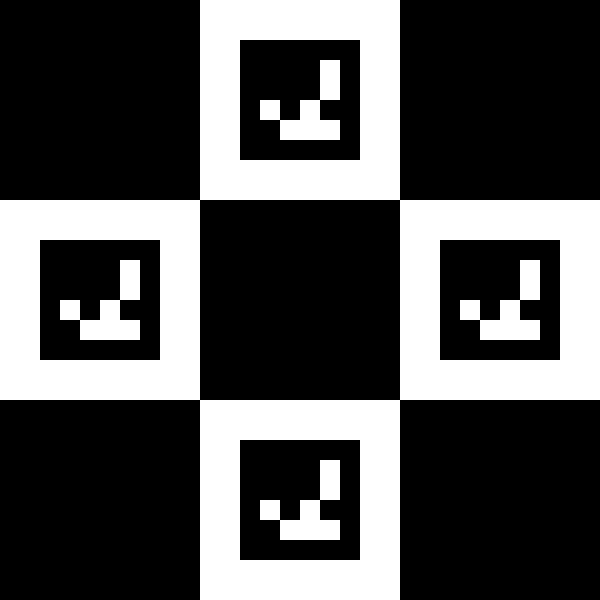
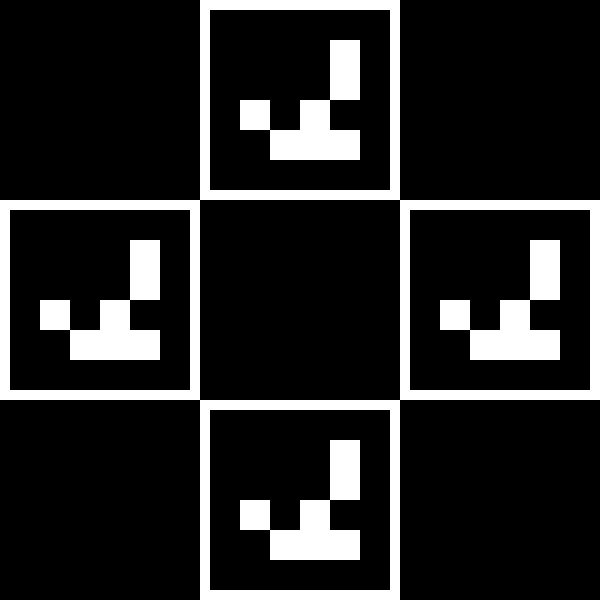
charuco tracking working

diff --git a/hostSystem/chArucoTracker.py b/hostSystem/chArucoTracker.py
@@ -72,17 +72,18 @@ class Tracker:
         (corners, ids, rejectedImgPoints) = cv2.aruco.detectMarkers(gray, self.arucoDict, parameters=self.arucoParams)
         # ads the corners to the dictionary if they are detected
         if len(corners) > 0:
-            diamondCorners, diamondIds = cv2.aruco.detectCharucoDiamond(gray, corners, self.squareWidth/self.markerWidth)
+            diamondCorners, diamondIds = cv2.aruco.detectCharucoDiamond(gray, corners, ids, self.squareWidth/self.markerWidth)
             if len(diamondCorners) > 0:
-                diamondIds.flatten()
+                # draws the marker outlines, ids
+                cv2.aruco.drawDetectedDiamonds(frame, diamondCorners, diamondIds)
                 for i in range(len(diamondIds)):
-                    self.Corners[diamondIds[i][0][0]] = diamondCorners[i]
+                    self.Corners[diamondIds[i][0][0]] = diamondCorners[i].reshape(1, 4, 2)
                     # only calculates position if the origin is found. Backup condition if the origin id has found markers because the origin will be marked as found inside the loop (second condition isn't checked if first condition is true)
         if self.originFound or len(self.Corners[10]) != 0:
             # locates the position of the origin marker only once to eliminate a bit of noise (if camera is not rigid and it moves this should be changed)
             if not self.originFound:
                 # gets the rotation and translation vector of the origin marker
-                self.originR, self.originT, markerpos = cv2.aruco.estimatePoseSingleMarkers(self.Corners[10], self.markerWidth, self.mtx, self.dist)
+                self.originR, self.originT, markerpos = cv2.aruco.estimatePoseSingleMarkers(self.Corners[10], self.squareWidth, self.mtx, self.dist)
                 # calculates rotation matrix from the rotation vector
                 self.rodrigues = cv2.Rodrigues(self.originR[0][0])[0]
                 self.originFound = True
@@ -92,7 +93,7 @@ class Tracker:
                 # checks if there is a marker found at the specific id
                 if len(self.Corners[10+i]) != 0:
                     # finds marker position in the camera reference frame
-                    rvec, tvec, markerpos = cv2.aruco.estimatePoseSingleMarkers(self.Corners[i+10], self.markerWidth, self.mtx, self.dist)
+                    rvec, tvec, markerpos = cv2.aruco.estimatePoseSingleMarkers(self.Corners[i+10], self.squareWidth, self.mtx, self.dist)
                     # finds the difference in position between the origin and the marker and rotates it to the origin reference frame
                     position = np.matmul(self.rodrigues, tvec[0][0]-self.originT[0][0])
                     # rotation matrix of the marker
@@ -103,8 +104,7 @@ class Tracker:
                     self.pos[i] = [position[0], position[1], self.fixAngle(heading)]
                     # drawing axis on the markers
                     cv2.aruco.drawAxis(frame, self.mtx, self.dist, Rod, tvec, self.markerWidth)
-        # draws the marker outlines, ids
-        cv2.aruco.drawDetectedDiamonds(frame, diamondCorners, diamondIds)
+
         # calculating FPS and drawing it onto the frame
         self.endTime = datetime.datetime.now()
         dt = (self.endTime - self.startTime).total_seconds()

diff --git a/hostSystem/PositionTracking.py b/hostSystem/PositionTracking.py
@@ -1,6 +1,7 @@
 from webcamvideostream import WebcamVideoStream
 import cv2
 from chArucoTracker import Tracker
+#from tracker import Tracker
 import requests
 import pandas as pd
 import numpy as np
@@ -30,10 +31,10 @@ while True:
     if ret:
         rederedFrame = tracker.find_markerPos(frame)
         # add frame rate to the rendered frame
-        if makeframe:
-            cv2.imshow("frame", rederedFrame)
-            if cv2.waitKey(1) & 0xFF == ord('q'):
-                break
+
+        cv2.imshow("frame", rederedFrame)
+        if cv2.waitKey(1) & 0xFF == ord('q'):
+            break
         print("(" + format(tracker.pos[1][0], '.2f') + ", " + format(tracker.pos[1][1], '.2f') + ", " + format(tracker.pos[1][2], '.2f') + ")" + "(" + format(tracker.pos[2][0], '.2f') + ", " + format(tracker.pos[2]
               [1], '.2f') + ", " + format(tracker.pos[2][2], '.2f') + ")" + "(" + format(tracker.pos[3][0], '.2f') + ", " + format(tracker.pos[3][1], '.2f') + ", " + format(tracker.pos[3][2], '.2f') + ")", end='\r')
 # release the camera

diff --git a/hostSystem/tracker.py b/hostSystem/tracker.py
@@ -78,6 +78,7 @@ class Tracker:
         if self.originFound or len(self.Corners[10]) != 0:
             # locates the position of the origin marker only once to eliminate a bit of noise (if camera is not rigid and it moves this should be changed)
             if not self.originFound:
+                print(self.Corners[10].shape)
                 # gets the rotation and translation vector of the origin marker
                 self.originR, self.originT, markerpos = cv2.aruco.estimatePoseSingleMarkers(self.Corners[10], self.markerWidth, self.mtx, self.dist)
                 # calculates rotation matrix from the rotation vector

diff --git a/makeDiamondMarker.py b/makeDiamondMarker.py
@@ -27,5 +27,5 @@ ARUCO_DICT = {
 arucoDict = cv2.aruco.Dictionary_get(ARUCO_DICT["DICT_4X4_1000"])
 tag = np.zeros((600, 600, 1), dtype='uint8')
 ids = np.array([11, 11, 11, 11])
-cv2.aruco.drawCharucoDiamond(arucoDict, ids, 200, 120, tag)
+cv2.aruco.drawCharucoDiamond(arucoDict, ids, 200, 180, tag)
 cv2.imwrite("charuco11.png", tag)
